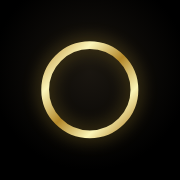
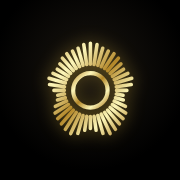
Flux Scribe emblem: a circular voice waveform
Claude-Session: https://claude.ai/code/session_014Jf1Zz5VdAFUz4GXuR9DEp

Changed region(s): [[0.2222, 0.2222, 0.7778, 0.7778]]

diff --git a/src/components/Logo.tsx b/src/components/Logo.tsx
@@ -1,5 +1,6 @@
-// The Flux Scribe emblem: the family ring framing five harmonic bars — a
-// voice waveform — drawn in the active theme's 5-stop metallic gradient.
+// The Flux Scribe emblem: a circular voice waveform — the same radial bars
+// the recorder draws while listening — around the family ring, in the
+// active theme's 5-stop metallic gradient.
 export function Logo({ className = 'h-9 w-9', animate = true }: { className?: string; animate?: boolean }) {
   return (
     <svg viewBox="0 0 100 100" fill="none" className={`${className} ${animate ? 'emblem-flash' : ''}`} aria-hidden>
@@ -12,14 +13,8 @@ export function Logo({ className = 'h-9 w-9', animate = true }: { className?: st
           <stop offset="100%" stopColor="var(--grad-5)" />
         </linearGradient>
       </defs>
-      <circle cx="50" cy="50" r="40" stroke="url(#scribeGrad)" strokeWidth="7" />
-      <g stroke="url(#scribeGrad)" strokeWidth="7.5" strokeLinecap="round">
-        <line x1="29" y1="45" x2="29" y2="55" />
-        <line x1="39.5" y1="37" x2="39.5" y2="63" />
-        <line x1="50" y1="29" x2="50" y2="71" />
-        <line x1="60.5" y1="39" x2="60.5" y2="61" />
-        <line x1="71" y1="46" x2="71" y2="54" />
-      </g>
+      <circle cx="50" cy="50" r="14.5" stroke="url(#scribeGrad)" strokeWidth="3.5" />
+      <path d="M50.0 28.0L50.0 10.3M53.1 28.2L55.6 11.3M56.2 28.9L60.4 14.5M59.1 30.0L65.1 16.9M61.9 31.5L69.9 19.1M64.4 33.4L73.6 22.8M66.6 35.6L75.7 27.7M68.5 38.1L77.9 32.1M70.0 40.9L81.5 35.6M71.1 43.8L84.8 39.8M71.8 46.9L84.4 45.0M72.0 50.0L80.7 50.0M71.8 53.1L77.5 54.0M71.1 56.2L77.7 58.1M70.0 59.1L79.5 63.5M68.5 61.9L79.7 69.1M66.6 64.4L77.5 73.8M64.4 66.6L74.4 78.2M61.9 68.5L71.1 82.8M59.1 70.0L66.6 86.3M56.2 71.1L60.6 86.2M53.1 71.8L54.8 83.6M50.0 72.0L50.0 82.1M46.9 71.8L45.2 83.6M43.8 71.1L39.4 86.2M40.9 70.0L33.4 86.3M38.1 68.5L28.9 82.8M35.6 66.6L25.6 78.2M33.4 64.4L22.5 73.8M31.5 61.9L20.3 69.1M30.0 59.1L20.5 63.5M28.9 56.2L22.3 58.1M28.2 53.1L22.5 54.0M28.0 50.0L19.3 50.0M28.2 46.9L15.6 45.0M28.9 43.8L15.2 39.8M30.0 40.9L18.5 35.6M31.5 38.1L22.1 32.1M33.4 35.6L24.3 27.7M35.6 33.4L26.4 22.8M38.1 31.5L30.1 19.1M40.9 30.0L34.9 16.9M43.8 28.9L39.6 14.5M46.9 28.2L44.4 11.3" stroke="url(#scribeGrad)" strokeWidth="3" strokeLinecap="round" />
     </svg>
   )
 }

diff --git a/index.html b/index.html
@@ -11,8 +11,8 @@
     <meta name="mobile-web-app-capable" content="yes" />
     <meta name="apple-mobile-web-app-status-bar-style" content="black-translucent" />
     <meta name="apple-mobile-web-app-title" content="Flux Scribe" />
-    <link rel="apple-touch-icon" href="/apple-touch-icon.png" />
-    <link rel="icon" type="image/svg+xml" href="/favicon.svg" />
+    <link rel="apple-touch-icon" href="/apple-touch-icon.png?v=2" />
+    <link rel="icon" type="image/svg+xml" href="/favicon.svg?v=2" />
     <link rel="preconnect" href="https://fonts.googleapis.com" />
     <link rel="preconnect" href="https://fonts.gstatic.com" crossorigin />
     <link href="https://fonts.googleapis.com/css2?family=Manrope:wght@200..800&family=JetBrains+Mono:wght@400;600&display=swap" rel="stylesheet" />
